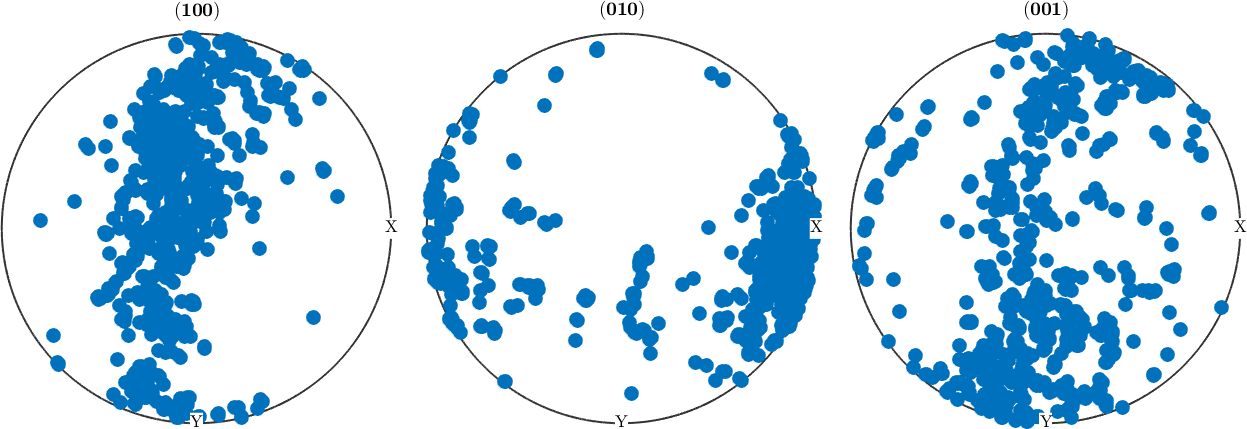
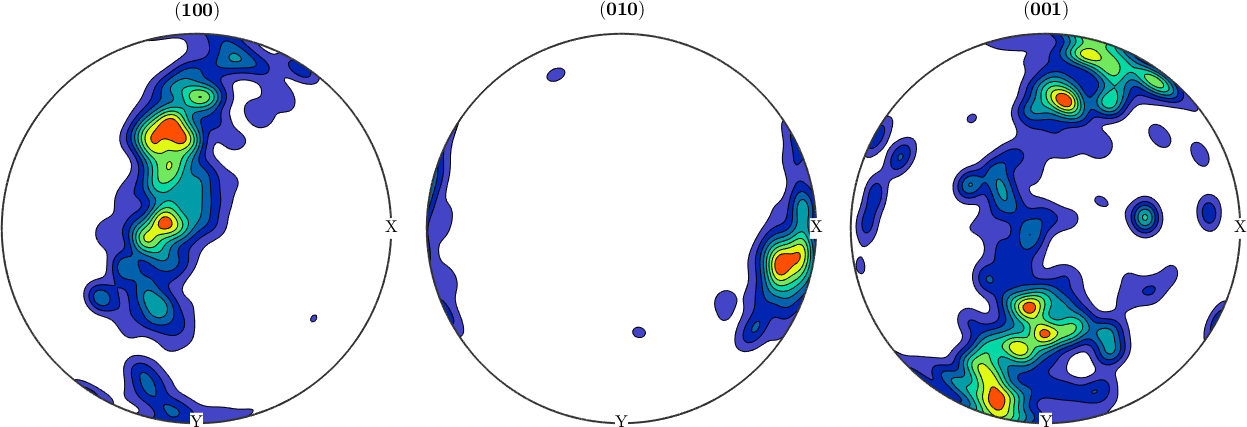
docu

diff --git a/pages/documentation_matlab/EBSDImport.html b/pages/documentation_matlab/EBSDImport.html
@@ -26,58 +26,55 @@ To make changes, update the MATLAB code and republish this document.
 <p>MTEX allows you to import EBSD data from a wide variety of file formats. In the most simplest case import can be done by the command <a href="EBSD.load.html"><code class="language-plaintext highlighter-rouge">EBSD.load</code></a>
 </p>
 {% highlight matlab %}
-ebsd = EBSD.load([mtexEBSDPath filesep 'twins.ctf'],...
-  'EulerCorrection',rotation.byAxisAngle(xvector,180*degree))
+fileName = [mtexEBSDPath filesep 'EMSphinx.h5'];
+ebsd = EBSD.load(fileName)
 {% endhighlight %}
 
 {% highlight plaintext %}
-ebsd = EBSDsquare (Y1↓→X1)
+════════════════════════════════════════════════════════════════════════════════
+HDF5 CONFIGURATION LOADED
+├── Manufacturer : EMSphInx
+├── Data sets    : 4
+│   ▸ [1] Scan 1/EBSD
+│     [2] Scan 2/EBSD
+│     [3] Scan 3/EBSD
+│     [4] Scan 4/EBSD
+└── Pick one by EBSD.load(fname,'dataSet',4) or 'dataSet','Scan 4/EBSD'
+════════════════════════════════════════════════════════════════════════════════
  
- Phase  Orientations     Mineral         Color  Symmetry  Crystal reference frame
-     0     46 (0.2%)  notIndexed          none                                   
-     1  22833 (100%)   Magnesium  LightSkyBlue     6/mmm        X||a*, Y||b, Z||c
+ebsd = EBSDsquare (y↓→x)
  
- Properties: bands, bc, bs, error, mad, oldId
+ Phase  Orientations           Mineral         Color  Symmetry  Crystal reference frame
+     0  2148 (0.44%)    Fe(alpha-iron)  LightSkyBlue      m-3m                         
+     1  478052 (99%)    Fe(gamma-iron)  DarkSeaGreen      m-3m                         
+     2     4940 (1%)  Co(alpha-cobalt)     Goldenrod     6/mmm        X||a, Y||b*, Z||c
+ 
+ Properties: IQ, Metric, oldId
  Scan unit : um
- X x Y x Z : [0 → 50] x [0 → 41] x [0 → 0]
+ X x Y x Z : [0 → 382] x [0 → 203] x [0 → 0]
  Normal vector: (0,0,1)
- Square grid  :137 x 167
+ Square grid  :508 x 955
+ dataSet: /Scan 1/EBSD
+ dataSets: Scan 1/EBSD Scan 2/EBSD Scan 3/EBSD Scan 4/EBSD
 {% endhighlight %}
-<p>This command automatically detects the file format and generates a variable of type <a href="EBSD.EBSD.html">EBSD</a> which contains all the information of the EBSD data set. Let us quickly do an orientation plot of the Magnesium phase</p>
+<p>This command automatically detects the file format and generates a variable of type <a href="EBSD.EBSD.html">EBSD</a> which contains all the information of the EBSD data set. Let us quickly do an orientation plot of the gamma phase</p>
 {% highlight matlab %}
-plot(ebsd('Magnesium'),ebsd('Magnesium').orientations)
+plot(ebsd('Fe(gamma'), ebsd('Fe(gamma').orientations)
 {% endhighlight %}
 <center>
 {% include inline_image.html file="EBSDImport_01.png" %}
 </center>
 <p>The variable of type EBSD is the starting point for all further analysis, e.g., <a href="GrainReconstruction.html">grain reconstruction</a>, <a href="EBSD2ODF.html">ODF reconstruction</a>, <a href="EBSDMisorientation">misorientation analysis</a>, etc.</p>
-<h2 id="4">Imported Data Comes on Its Grid</h2>
-<p>Note that the variable above is not a plain <a href="EBSD.EBSD.html">EBSD</a> but an <a href="EBSDsquare.EBSDsquare.html">EBSDsquare</a>. Almost every scan is a complete raster on a square or a hexagonal grid, and <a href="EBSD.load.html"><code class="language-plaintext highlighter-rouge">EBSD.load</code></a> keeps it that way: the measurements are stored as a matrix, so that <code class="language-plaintext highlighter-rouge">ebsd(i,j)</code> addresses a scan position and plotting and denoising do not have to reconstruct the raster first. The details are described in <a href="EBSDGrid.html">Square and Hex Grids</a>.</p>
-<p>Data that would lose measurements by being gridded - because two of them fall into the same lattice cell, or because the positions are too irregular to span a raster at all - is never gridded. Such a file is imported as a plain list of pixels and states why</p>
-{% highlight matlab %}
-Warning: 48 of 613 indexed measurements share a lattice cell with
-another one, so gridding them would drop those measurements. Keeping the
-data as a list [...]
-{% endhighlight %}
-<p>You may also ask for a plain list explicitly, for a single import</p>
-{% highlight matlab %}
-ebsd = EBSD.load(fname,'noGrid')
-{% endhighlight %}
-<p>or for the whole session</p>
-{% highlight matlab %}
-setMTEXpref('gridifyOnImport',false)
-{% endhighlight %}
-<p>Neither is needed for the analysis - all MTEX functions accept both representations - and you can convert at any time with <code class="language-plaintext highlighter-rouge">EBSD(ebsd)</code> and <a href="EBSD.gridify.html"><code class="language-plaintext highlighter-rouge">gridify</code></a>.</p>
-<h2 id="5">Importing EBSD data using the import wizard</h2>
+<h2 id="4">Importing EBSD data using the import wizard</h2>
 <p>In many cases however, importing EBSD data is not that straightforward as suggested above. The reason is that during the measuring process different reference systems are involved and resulting coordinates, i.e., the spatial coordinates and the Euler angles, are often not stored in a consistent way by commercial software. Please read <a href="EBSDReferenceFrame.html">EBSD Reference Systems</a> for more information about how to set up reference frames correctly.</p>
-<p>In order to help the user to import EBSD data consistently to a fixed specimen reference frame (which the user should know), MTEX provide the <a href="matlab:import_wizard">import wizard</a> as a graphical user interface. The <code class="language-plaintext highlighter-rouge">import_wizard</code> can be started either by typing into the command line</p>
+<p>In order to help the user to import EBSD data consistently to a fixed specimen reference frame (which the user should know), MTEX provides the <a href="matlab:import_wizard">import wizard</a> as a graphical user interface. The <code class="language-plaintext highlighter-rouge">import_wizard</code> is started by typing into the command line</p>
 {% highlight matlab %}
-import_wizard
+import_wizard;
 {% endhighlight %}
+<p>
 <center>
-{% include inline_image.html file="EBSDImport_02.png" %}
+{% include inline_image.html file="importWizzard.png" %}
 </center>
-<p>EBSD Data files can be also imported via the <a href="matlab:filebrowser">file browser</a> by choosing <i>Import Data</i> from the context menu of the selected file if its file extension was registered with <a href="matlab:opentoline(fullfile(mtex_path,'mtex_settings.m'),25,1)"><code class="language-plaintext highlighter-rouge">mtex_settings.m</code></a>
 </p>
 <p>The import wizard guides through the correct setup of:</p>
 <div>
@@ -88,37 +85,88 @@ import_wizard
 </ul>
 </div>
 <p>The import wizard allows you to either create directly a workspace variable of type <a href="EBSD.EBSD.html">EBSD</a> or to generates a m-file, which contains all the customization and allows you to import the data in future sessions without the import wizard. This last option is highly recommended as the created script is also a good starting point for further analysis and data processing.</p>
-<h2 id="7">The Import Script</h2>
+<h2 id="6">The Import Script</h2>
 <p>A script generated by the import wizard has approximately the following form:</p>
 {% highlight matlab %}
 % crystal symmetry
-CS = {...
-  'notIndexed',...
-  crystalSymmetry('6/mmm', [3.2 3.2 5.2], 'X||a*', 'Y||b', 'Z||c*',...
-  'mineral', 'Magnesium', 'color', [0.53 0.81 0.98])};
+csList = [
+  notIndexed(), ...
+  crystalSymmetry('m-3m', [2.8665, 2.8665, 2.8665], 'mineral', 'Fe(alpha-iron)'), ...
+  crystalSymmetry('m-3m', [3.5910, 3.5910, 3.5910], 'mineral', 'Fe(gamma-iron)'), ...
+  crystalSymmetry('6/mmm', [2.5071, 2.5071, 4.0686], 'mineral', 'Co(alpha-cobalt)')
+];
 
 % plotting convention
-setMTEXpref('xAxisDirection','east');
-setMTEXpref('zAxisDirection','outOfPlane');
+plottingConvention.default('y↓→x');
 
 % path to files
 pname = mtexEBSDPath;
 
 % which files to be imported
-fname = [pname filesep 'twins.ctf'];
+fname = [pname filesep 'EMSphinx.h5'];
+
+% Euler reference frame to map reference frame correction
+EulerCorrection = rotation.map(-yvector,xvector,zvector,-zvector);
 
 % create an EBSD variable containing the data
-ebsd = EBSD.load(fname,CS,'interface','ctf',...
-  'EulerCorrection',rotation.byAxisAngle(zvector,180*degree));
+ebsd = EBSD.load(fname,csList, 'EulerCorrection', EulerCorrection)
+{% endhighlight %}
+
+{% highlight plaintext %}
+════════════════════════════════════════════════════════════════════════════════
+HDF5 CONFIGURATION LOADED
+├── Manufacturer : EMSphInx
+├── Data sets    : 4
+│   ▸ [1] Scan 1/EBSD
+│     [2] Scan 2/EBSD
+│     [3] Scan 3/EBSD
+│     [4] Scan 4/EBSD
+└── Pick one by EBSD.load(fname,'dataSet',4) or 'dataSet','Scan 4/EBSD'
+════════════════════════════════════════════════════════════════════════════════
+ 
+ebsd = EBSDsquare (y↓→x)
+ 
+ Phase  Orientations           Mineral         Color  Symmetry  Crystal reference frame
+     0  2148 (0.44%)    Fe(alpha-iron)  LightSkyBlue      m-3m                         
+     1  478052 (99%)    Fe(gamma-iron)  DarkSeaGreen      m-3m                         
+     2     4940 (1%)  Co(alpha-cobalt)     Goldenrod     6/mmm        X||a, Y||b*, Z||c
+ 
+ Properties: IQ, Metric, oldId
+ Scan unit : um
+ X x Y x Z : [0 → 382] x [0 → 203] x [0 → 0]
+ Normal vector: (0,0,1)
+ Square grid  :508 x 955
+ dataSet: /Scan 1/EBSD
+ dataSets: Scan 1/EBSD Scan 2/EBSD Scan 3/EBSD Scan 4/EBSD
 {% endhighlight %}
 <p>Running this script imports the data into a variable named <code class="language-plaintext highlighter-rouge">ebsd</code>. From this point, the script can be extended to your needs, e.g:</p>
 {% highlight matlab %}
-plot(ebsd,ebsd.orientations)
+grains = calcGrains(ebsd)
+
+plot(ebsd('Fe(gamma-iron)'),ebsd('Fe(gamma-iron)').orientations)
+hold on
+plot(grains.boundary,'LineWidth',2)
+hold off
+{% endhighlight %}
+
+{% highlight plaintext %}
+grains = grain2d (y↓→x)
+ 
+ Phase  Grains  Pixels           Mineral  Symmetry         Color
+     0     268    2148    Fe(alpha-iron)      m-3m  LightSkyBlue
+     1     544  478052    Fe(gamma-iron)      m-3m  DarkSeaGreen
+     2     394    4940  Co(alpha-cobalt)     6/mmm     Goldenrod
+ 
+ boundary segments: 34170 (13668 µm)
+ inner boundary segments: 3157 (1263 µm)
+ triple points: 1067
+ 
+ Properties: meanRotation, GOS
 {% endhighlight %}
 <center>
-{% include inline_image.html file="EBSDImport_03.png" %}
+{% include inline_image.html file="EBSDImport_02.png" %}
 </center>
-<h2 id="9">Supported Data Formats</h2>
+<h2 id="8">Supported Data Formats</h2>
 <p>MTEX supports the following EBSD data formats:</p>
 <p>
    <table class="usertable">
@@ -197,7 +245,7 @@ alpha_3 beta_3 gamma_3 phase_3 x_3 y_3
 .      .       .       .       .   .
 alpha_M beta_M gamma_M phase_m x_m y_m</pre>
 <p>an additional tool supports you to associated the columns with the corresponding properties.</p>
-<h2 id="10">HDF5 Files With Several Data Sets</h2>
+<h2 id="9">HDF5 Files With Several Data Sets</h2>
 <p>HDF5 files are often project files holding more than one map - an EDAX project stores its maps as <code class="language-plaintext highlighter-rouge">Area N/OIM Map N</code>, an Oxford project its slices as <code class="language-plaintext highlighter-rouge">/1</code>, <code class="language-plaintext highlighter-rouge">/2</code>, ..., an EMSphInx file its scans as <code class="language-plaintext highlighter-rouge">Scan N</code>. Whenever a file contains more than one, the import lists them and states which one it took</p>
 <pre>├── Data sets    : 2
 │   ▸ [1] Area 1/OIM Map 1/EBSD
@@ -211,8 +259,8 @@ ebsd = EBSD.load(fname,'dataSet','OIM Map 7')
 {% highlight matlab %}
 ebsd = EBSD.load(fname,'headerOnly')
 {% endhighlight %}
-<p>The <a href="import_wizard.html">import wizard</a> lists everything a file offers below its file browser - selecting a row imports it.</p>
-<h2 id="11">Raw and Post Processed Data</h2>
+<p>The import wizard lists everything a file offers below its file browser - selecting a row imports it.</p>
+<h2 id="10">Raw and Post Processed Data</h2>
 <p>An Oxford <code class="language-plaintext highlighter-rouge">h5oina</code> file may store the map twice - as recorded by the detector under <code class="language-plaintext highlighter-rouge">EBSD</code> and as cleaned up by the vendor software under <code class="language-plaintext highlighter-rouge">Data Processing</code>. Both are simply data sets of that file, so they are listed and picked exactly like the maps above, the cleaned up one first</p>
 {% highlight matlab %}
 ebsd = EBSD.load(fname)                        % post processed
@@ -220,7 +268,7 @@ ebsd = EBSD.load(fname,'dataSet','EBSD')       % as recorded
 {% endhighlight %}
 <p>The recorded version comes with the full set of per pixel properties - band contrast, band slope, pattern quality, the pattern centre, ... - while the cleaned up one keeps only a few of them, but has its bad pixels cleaned up. Both refer to the same reference frame, so orientations may be compared between them directly.</p>
 <p>A file that was never processed holds the recorded version alone and simply lists one data set per map.</p>
-<h2 id="12">Writing your own interface</h2>
+<h2 id="11">Writing your own interface</h2>
 <p>In the rare case of an EBSD format that is not supported, the user can write its own interface to import the data. Once you have successfully written that, you can integrate this method into MTEX by copying it into the folder <code class="language-plaintext highlighter-rouge">mtex/interfaces</code> and rename your function <code class="language-plaintext highlighter-rouge">loadEBSD_xxx</code>. Then it will be automatically recognized by the import wizard. Examples how to write such an interface can be found in the directory <code class="language-plaintext highlighter-rouge">mtex/interfaces</code>.</p>
 </div>
 </body>

diff --git a/pages/documentation_matlab/EBSDTutorial.html b/pages/documentation_matlab/EBSDTutorial.html
@@ -27,8 +27,13 @@ To make changes, update the MATLAB code and republish this document.
 <h2 id="1">Data import</h2>
 <p>MTEX allows you to import EBSD from all big vendors of EBSD systems. Preferred data formats are text based data files like <code class="language-plaintext highlighter-rouge">.ang</code>, <code class="language-plaintext highlighter-rouge">.ctf</code> or open binary formats like <code class="language-plaintext highlighter-rouge">.osc</code> or <code class="language-plaintext highlighter-rouge">.h5</code>. Most conveniently, EBSD data may be imported using the import wizard, by typing</p>
 {% highlight matlab %}
-import_wizard
+import_wizard;
 {% endhighlight %}
+<p>
+<center>
+{% include inline_image.html file="importWizzard.png" %}
+</center>
+</p>
 <p>or by the command <a href="EBSD.load.html">EBSD.load</a>
 </p>
 {% highlight matlab %}
@@ -53,16 +58,16 @@ ebsd = EBSDsquare (Y1↓→X1)
  Square grid  :336 x 732
 {% endhighlight %}
 <p>This command outputs ebsd data stored in a single variable, called <code class="language-plaintext highlighter-rouge">ebsd</code>. This variable contains all relevant information, i.e., the spatial coordinates, the orientation information, a description of the crystal symmetries and all other parameters contained in the input data file.</p>
-<h2 id="4">Phase Plots</h2>
+<h2 id="5">Phase Plots</h2>
 <p>In this example, the output above shows that the data set contains three different phases: Forsterite, Enstatite, and Diopside. The spatial distribution of the different phases can be visualized by the plotting command</p>
 {% highlight matlab %}
-plot(ebsd,'coordinates','on')
+plot(ebsd,'refFrame','on')
 {% endhighlight %}
 <center>
 {% include inline_image.html file="EBSDTutorial_01.png" %}
 </center>
 <p>When importing EBSD data it is important to check the alignment of the map coordinate system and the Euler angle coordinate system. This issue is exhaustively discussed in the topic <a href="EBSDReferenceFrame.html">Reference Frame Alignment</a>.</p>
-<h2 id="6">Orientation Plots</h2>
+<h2 id="7">Orientation Plots</h2>
 <p>Analyzing orientations of an EBSD map has to be done for each phase separately. The key syntax to restrict the data to a single phase is</p>
 {% highlight matlab %}
 ebsd('Forsterite')
@@ -96,7 +101,7 @@ plot(ebsd('Forsterite'),ebsd('Forsterite').orientations,'micronbar','off')
 {% include inline_image.html file="EBSDTutorial_02.png" %}
 </center>
 <p>Here the all Forsterite orientations a colored according to their alignment in a z inverse pole figure. A more complete discussion about how to colorize orientations can be found in the topic <a href="EBSDIPFMap.html">IPF Maps</a>.</p>
-<h2 id="10">Grain reconstruction</h2>
+<h2 id="11">Grain reconstruction</h2>
 <p>MTEX contains sophisticated algorithms for reconstructing grains from EBSD data as described in the paper <a href="https://www.researchgate.net/publication/51806709_Grain_detection_from_2d_and_3d_EBSD_data-Specification_of_the_MTEX_algorithm">Grain detection from 2d and 3d EBSD data</a> and the topic <a href="GrainReconstruction.html">Grain Reconstruction</a>. The syntax is</p>
 {% highlight matlab %}
 % reconstruct grains with a threshold angle of 10 degrees
@@ -131,7 +136,7 @@ hold off
 <center>
 {% include inline_image.html file="EBSDTutorial_03.png" %}
 </center>
-<h2 id="12">Crystal Shapes</h2>
+<h2 id="13">Crystal Shapes</h2>
 <p>In order to make the visualization of crystal orientations more intuitive MTEX supports <a href="CrystalShapes.html">crystal shapes</a>. Those are polyhedrons computed to match the typical shape of ideal crystals. In order to overlay the EBSD map with crystal shapes oriented accordingly to the orientations of the grains we proceed as follows.</p>
 {% highlight matlab %}
 % define the crystal shape of Forsterite and store it in the variable cS
@@ -155,37 +160,26 @@ cS = crystalShape
 <center>
 {% include inline_image.html file="EBSDTutorial_04.png" %}
 </center>
-<h2 id="13">Pole Figures</h2>
+<h2 id="14">Pole Figures</h2>
 <p>One of the most important tools for analyzing the orientations in an EBSD map are <a href="OrientationPoleFigure.html">pole figure plots</a>. Those answer the question of how selected crystal directions, here <code class="language-plaintext highlighter-rouge">h</code>, are aligned with respect to specimen directions</p>
 {% highlight matlab %}
 % the selected crystal directions
 h = Miller({1,0,0},{0,1,0},{0,0,1},ebsd('Forsterite').CS);
 
-% plot their positions with respect to specimen coordinates
-plotPDF(ebsd('Forsterite').orientations,h,'figSize','medium')
-{% endhighlight %}
-
-{% highlight plaintext %}
-I'm plotting 1250 random orientations out of 152345 given orientations
-  You can specify the the number points by the option "points".
-  The option "all" ensures that all data are plotted
+% plot their distribution with respect to the specimen reference system
+plotPDF(ebsd('Forsterite').orientations,h,'figSize','medium','contourf')
 {% endhighlight %}
 <center>
 {% include inline_image.html file="EBSDTutorial_05.png" %}
 </center>
-<h2 id="14">Inverse Pole Figures</h2>
+<h2 id="15">Inverse Pole Figures</h2>
 <p>Analogously one can ask for the crystal directions pointing in a selected specimen direction. The resulting plots are called <a href="OrientationInversePoleFigure.html">inverse pole figures</a>.</p>
 {% highlight matlab %}
-% select the specimen direction
-r = vector3d.Z;
+% select specimen directions
+r = [vector3d.X,vector3d.Y,vector3d.Z];
 
-% plot the position of the z-Axis in crystal coordinates
-plotIPDF(ebsd('Forsterite').orientations,r,'MarkerSize',5,...
-  'MarkerFaceAlpha',0.05,'MarkerEdgeAlpha',0.05)
-{% endhighlight %}
-
-{% highlight plaintext %}
-I'm plotting 12500 random orientations out of 152345 given orientations
+% plot the distribution of the x, y, and z-Axis positions in crystal coordinates
+plotIPDF(ebsd('Forsterite').orientations,r,'contour')
 {% endhighlight %}
 <center>
 {% include inline_image.html file="EBSDTutorial_06.png" %}

diff --git a/pages/documentation_matlab/EBSDExport.html b/pages/documentation_matlab/EBSDExport.html
@@ -23,12 +23,32 @@ To make changes, update the MATLAB code and republish this document.
 <div>
 <!--introduction-->
 <!--/introduction-->
-<p>MTEX allows you to export EBSD data as <a href="EBSD.export_h5.html">h5</a>, <a href="EBSD.export_ctf.html">ctf</a>, <a href="EBSD.export_ang.html">ang</a> or <a href="EBSD.export_crc.html">cpr/crc</a> files. The syntax is</p>
+<p>MTEX allows you to export EBSD data as <a href="exportEBSD_h5.html">HDF5</a>, <a href="exportEBSD_ctf.html">ctf</a>, <a href="exportEBSD_ang.html">ang</a> or <a href="EBSD.export_crc.html">cpr/crc</a> files. The syntax is</p>
 {% highlight matlab %}
 ebsd.export('myFile.ctf')
 {% endhighlight %}
-<p>The file format is detected automatically from the the extension of the specified file name.</p>
-<p>Note that information may be lost during export into a format different then the import format as not all file formats support all properties.</p>
+<p>The file format is detected automatically from the extension of the specified file name.</p>
+<p>Note that information may be lost during export into a format different then the import format as not all file formats support all properties. The exporters take as much of it along as the format allows: whatever the header of the imported file stated is kept in <code class="language-plaintext highlighter-rouge">ebsd.opt.header</code> and written back out, and the Euler angles are written in the reference frame the format states them in, so that importing the result reproduces the map rather than a rotated copy of it.</p>
+<h2 id="2">HDF5 - writing into a copy of the imported file</h2>
+<p>There is no such thing as <b>the</b> EBSD HDF5 format - every vendor nests its data differently and stores much more than MTEX imports, from the raw patterns to the acquisition settings. Writing one from scratch would lose all of that. Exporting to HDF5 therefore copies the file the data was imported from and writes the changed data into the copy, so the result is still a file of the vendor's own format.</p>
+{% highlight matlab %}
+ebsd = EBSD.load('myfile.h5oina')
+ebsd = ebsd.denoise(halfQuadraticFilter)
+{% endhighlight %}
+
+{% highlight matlab %}
+% writes a copy of myfile.h5oina with the denoised orientations in it
+export(ebsd,'denoised.h5oina')
+{% endhighlight %}
+<p>
+<code class="language-plaintext highlighter-rouge">EBSD.load</code> remembers the file and the data sets it read in <code class="language-plaintext highlighter-rouge">ebsd.opt.h5</code> - a different reference file can be named explicitly, and properties MTEX computed are added next to the ones the file brought along:</p>
+{% highlight matlab %}
+export(ebsd,'denoised.h5oina','reference','myfile.h5oina')
+{% endhighlight %}
+<p>Data that was not imported from an HDF5 file, or the flag <code class="language-plaintext highlighter-rouge">'standalone'</code>, gives MTEX's own flat layout instead - orientations, phases, coordinates and properties, and nothing else.</p>
+{% highlight matlab %}
+export(ebsd,'myFile.h5','standalone')
+{% endhighlight %}
 </div>
 </body>
 </html>
